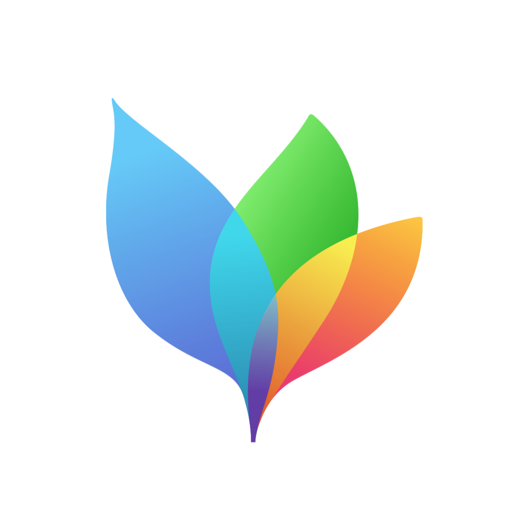
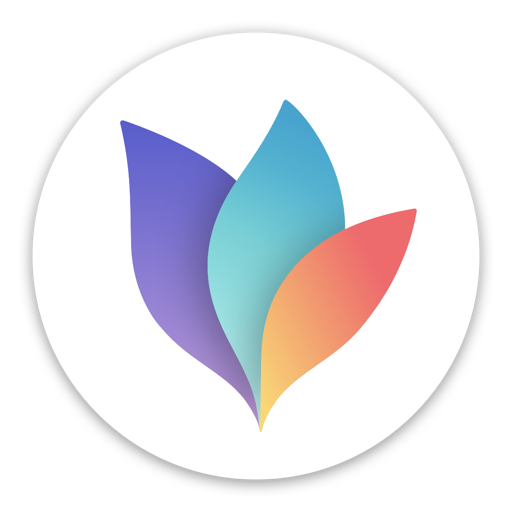
update wiki

diff --git a/workflow/Summary.md b/workflow/Summary.md
@@ -73,6 +73,7 @@
 		- [Sketch](macOS/apps/sketch.md)
 		- [Contacts](macOS/apps/contacts.md)
 		- [Keychain](macOS/apps/keychain.md)
+		- [1Password](macOS/apps/1password.md)
 		- [Little Snitch](macOS/apps/little-snitch.md)
 	- [JXA](macOS/jxa.md)
 	- [AppleScript](macOS/applescript.md)
@@ -170,8 +171,8 @@
 	- [BSD](operating-systems/bsd/bsd.md)
 	- [Windows](operating-systems/windows.md)
 - [Package managers](package-managers/package-managers.md)
-	- [Nix](package-managers/nix.md)
-	- [Brew](package-managers/brew.md)
+	- [Nix](package-managers/nix/nix.md)
+		- [Nix Darwin](package-managers/nix/nix-darwin.md)
 - [Mindfulness](mindfulness/mindfulness.md)
 	- [Meditation](mindfulness/meditation.md)
 	- [Buddhism](mindfulness/buddhism.md)
@@ -277,6 +278,8 @@
 	- [Landing pages](business/landing-pages.md)
 	- [Products](business/products.md)
 	- [Pricing](business/pricing.md)
+- [Relationships](relationships/relationships.md)
+	- [Dating](relationships/dating.md)
 - [3D Printing](3d-printing/3d-printing.md)
 - [Anki](anki/anki.md)
 - [Philosophy](philosophy/philosophy.md)

diff --git a/README.md b/README.md
@@ -1,7 +1,7 @@
 # Alfred My Mind [![Workflows](https://img.shields.io/badge/More%20Workflows-🎩-purple.svg)](https://github.com/learn-anything/alfred-workflows#readme) [![Thanks](https://img.shields.io/badge/Say%20Thanks-💗-ff69b4.svg)](https://www.patreon.com/nikitavoloboev)
 > [Alfred](https://www.alfredapp.com/) workflow to search through my notes and bookmarks
 
-<img src="https://i.imgur.com/23c0pMZ.png" width="500" alt="img">
+<img src="https://i.imgur.com/7yVITcw.png" width="500" alt="img">
 
 This workflow lets you search through entirety of [my personal wiki](https://wiki.nikitavoloboev.xyz), [all the articles](https://wiki.nikitavoloboev.xyz/sharing/my-articles.html) I wrote, [GitHub repositories](https://wiki.nikitavoloboev.xyz/sharing/my-github.html) I made as well as [GitHub Gists](https://gist.github.com/nikitavoloboev) I share and a lot more.
 
